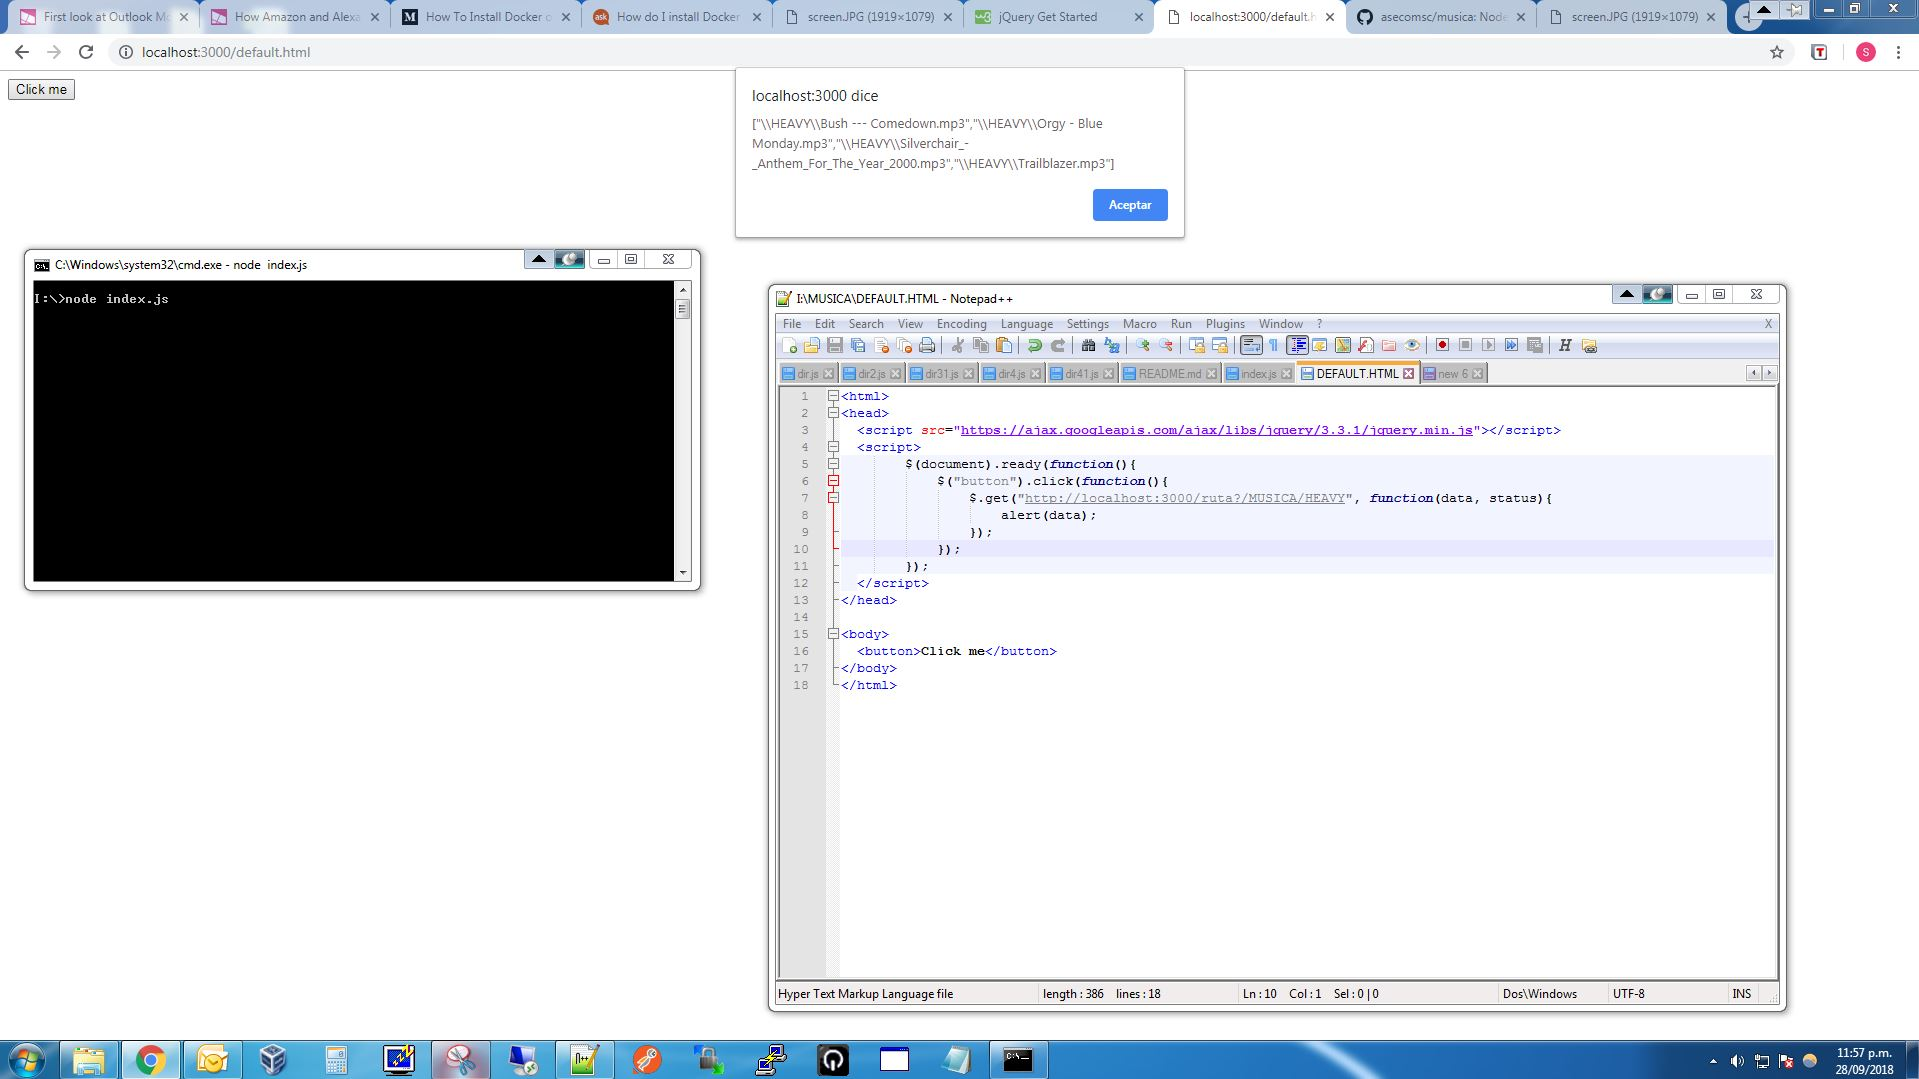
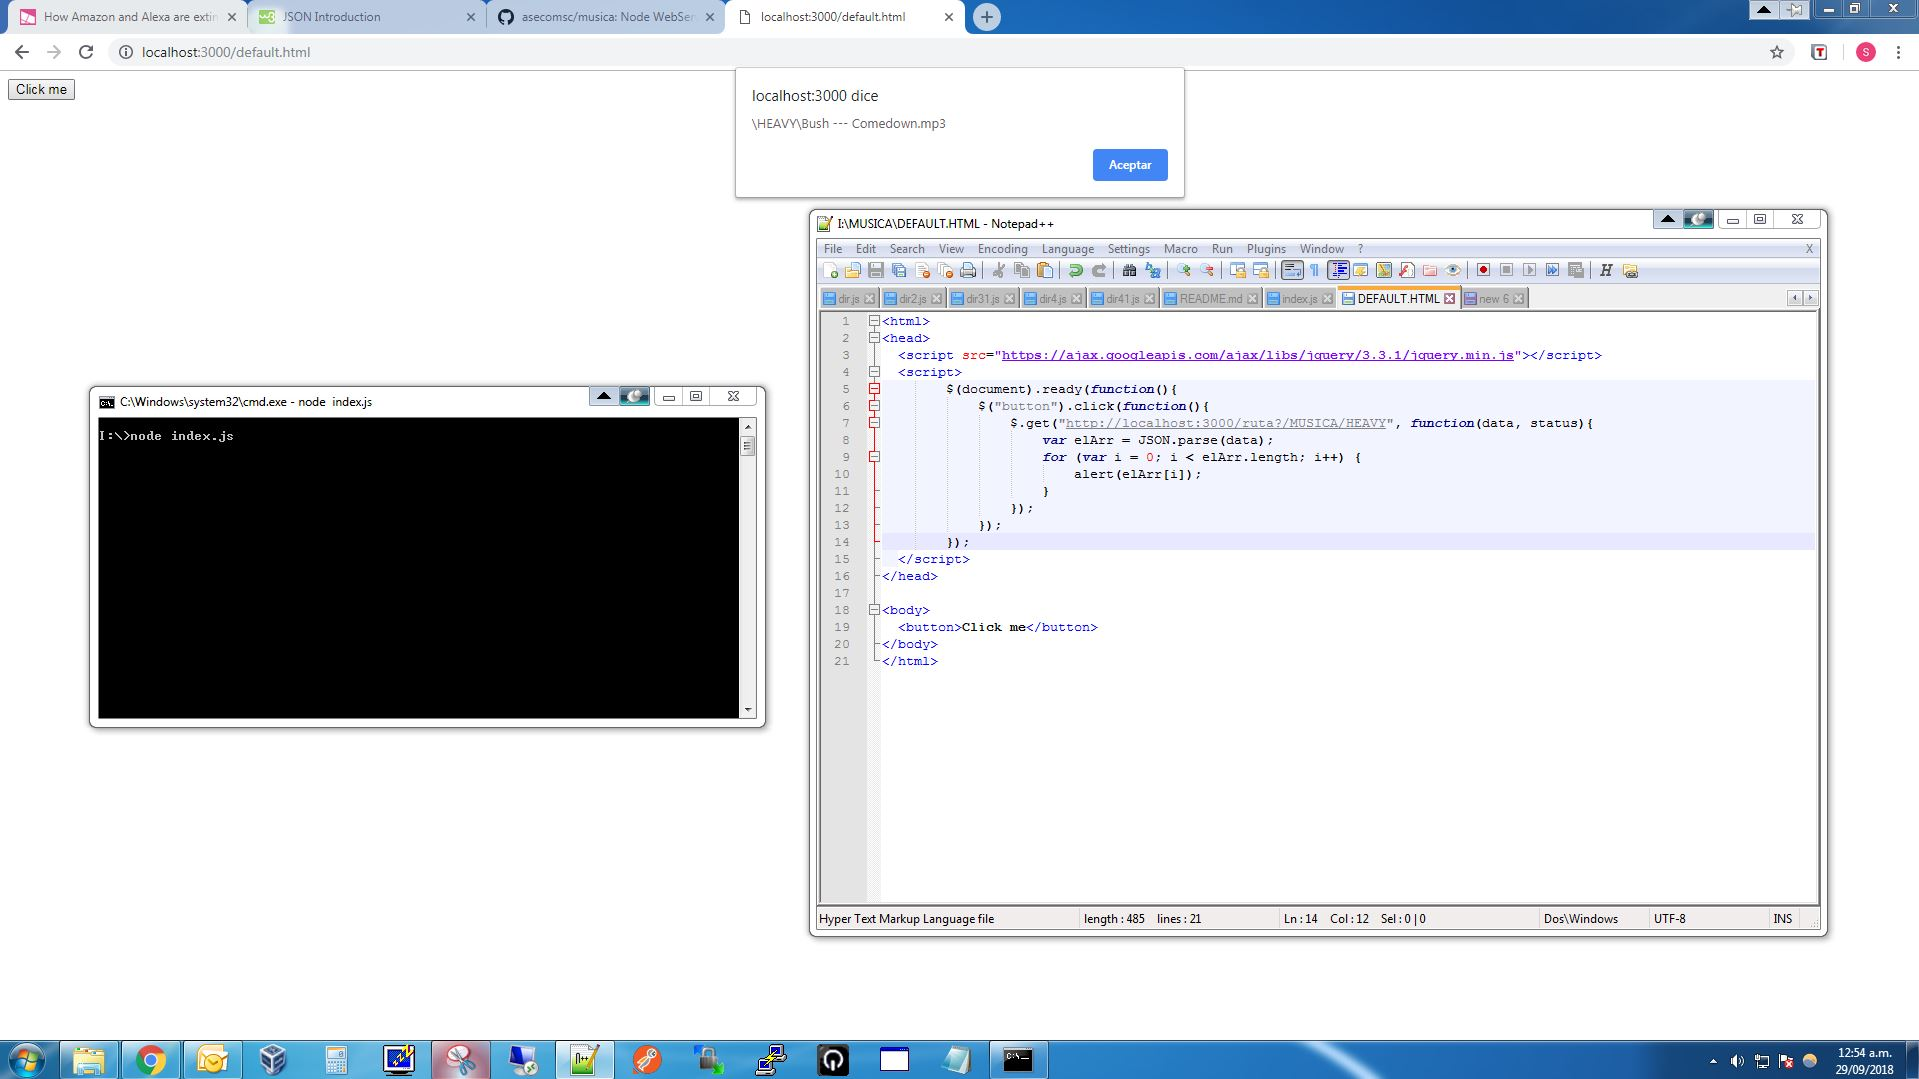
v1.4.1 json converted into js array, loop array and show every element

diff --git a/musica/DEFAULT.HTML b/musica/DEFAULT.HTML
@@ -5,7 +5,10 @@
 		$(document).ready(function(){
 			$("button").click(function(){
 				$.get("http://localhost:3000/ruta?/MUSICA/HEAVY", function(data, status){
-					alert(data);
+				    var elArr = JSON.parse(data);
+					for (var i = 0; i < elArr.length; i++) {
+						alert(elArr[i]);
+					}
 				});
 			});
 		});

diff --git a/README.md b/README.md
@@ -1,6 +1,7 @@
 ## 2018-09-28
 * v1.3 url: localhost:3000/ruta?/MUSICA/HEAVY y node al final le quita del path /MUSICA
 * v1.4 jquery call api and returned json show it using js alert
+* v1.4.1 JSON.parse to convert json in js array THEN loop array and show every element with alert
 
 ## 2018-09-18
 * v1.2 chrome receive in JSON
